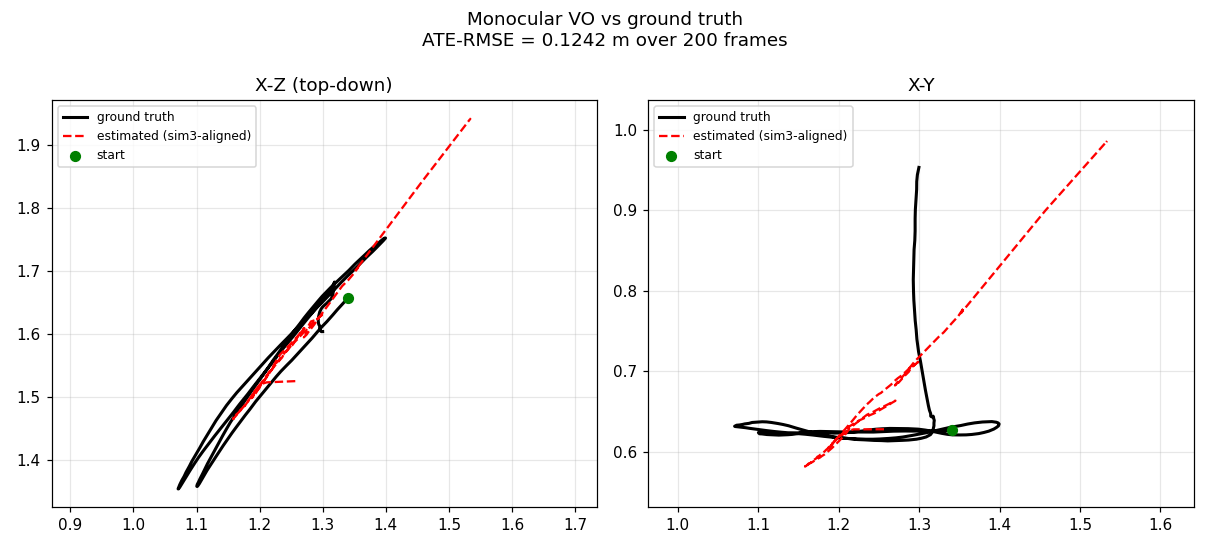
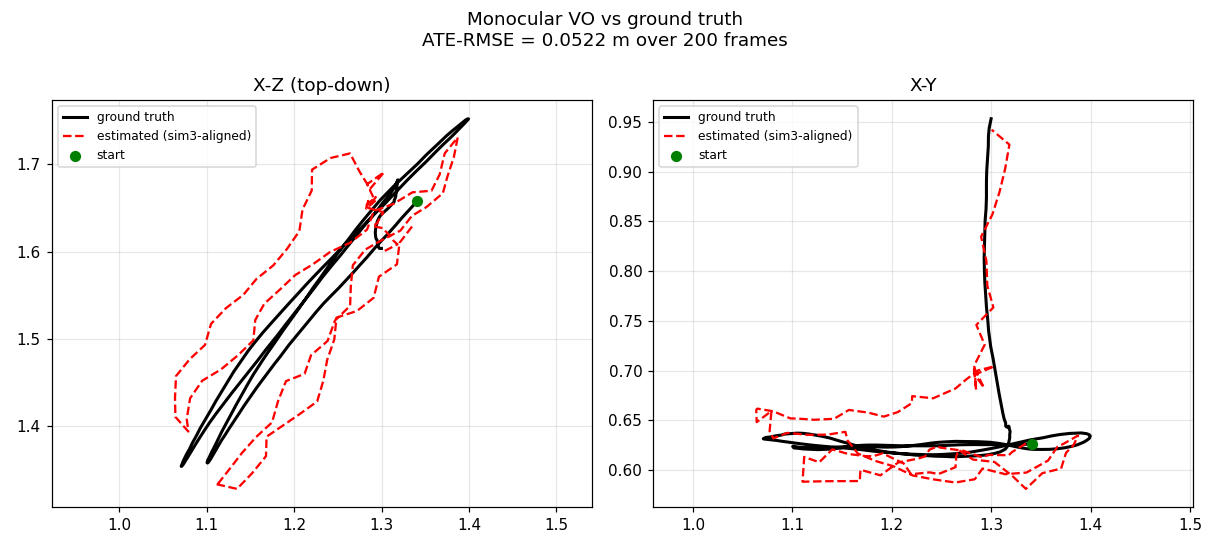
Track B v2: agent-authored VO VERIFIED on real TUM data (ATE 0.052 m)
Clean live re-run after the resilient-author fix: the sandboxed agent's VO
completed end-to-end and was graded automatically — 0.052 m held-out ATE,
beating the classical reference baseline (0.089 m). Updates the README demo
with an inline animated GIF (trajectory tracing), refreshes the plot/mp4 from
the verified v2 code, archives the algorithm, adds resilient-author + GIF
tooling, and documents the re-run in the trial write-up.

diff --git a/artifacts/agent_authored_vo_tum_v2.py b/artifacts/agent_authored_vo_tum_v2.py
@@ -1,0 +1,201 @@
+#!/usr/bin/env python3
+"""
+Monocular Visual Odometry — robust keyframe-based pipeline
+
+Pipeline:
+  1. Use goodFeaturesToTrack + optical flow with skip=2 for reliable E estimation
+  2. Fall back to wider baselines or SIFT when needed
+  3. Properly interpolate intermediate frames between keyframes
+  4. Output one "tx ty tz" per frame to $LAB_ARTIFACTS/traj.txt
+"""
+
+import os
+import glob
+import cv2
+import numpy as np
+
+# ── Paths ──────────────────────────────────────────────────────────────────────
+DATA_DIR      = os.environ.get("LAB_DATA",      "/data")
+ARTIFACTS_DIR = os.environ.get("LAB_ARTIFACTS", "/artifacts")
+os.makedirs(ARTIFACTS_DIR, exist_ok=True)
+
+# ── Intrinsics ─────────────────────────────────────────────────────────────────
+with open(os.path.join(DATA_DIR, "intrinsics.txt")) as f:
+    vals = [float(l.strip()) for l in f if l.strip()]
+fx, fy, cx, cy = vals
+K = np.array([[fx, 0, cx],
+              [0, fy, cy],
+              [0,  0,  1]], dtype=np.float64)
+print(f"K: fx={fx:.2f} fy={fy:.2f} cx={cx:.2f} cy={cy:.2f}")
+
+# ── Load all frames ────────────────────────────────────────────────────────────
+frame_paths = sorted(glob.glob(os.path.join(DATA_DIR, "frame_*.png")))
+N = len(frame_paths)
+print(f"Loading {N} frames …")
+imgs = [cv2.imread(p, cv2.IMREAD_GRAYSCALE) for p in frame_paths]
+print("Done loading.")
+
+# ── Feature detector / SIFT backup ────────────────────────────────────────────
+sift = cv2.SIFT_create(nfeatures=2000, contrastThreshold=0.02)
+FLANN_INDEX_KDTREE = 1
+flann = cv2.FlannBasedMatcher(
+    {"algorithm": FLANN_INDEX_KDTREE, "trees": 5},
+    {"checks": 100}
+)
+
+LK_PARAMS = dict(
+    winSize=(21, 21), maxLevel=3,
+    criteria=(cv2.TERM_CRITERIA_EPS | cv2.TERM_CRITERIA_COUNT, 30, 0.01)
+)
+
+# ── Helpers ────────────────────────────────────────────────────────────────────
+def optical_flow_pose(img_src, img_dst, threshold=1.0):
+    """Estimate relative pose via goodFeaturesToTrack + optical flow + E."""
+    corners = cv2.goodFeaturesToTrack(
+        img_src, maxCorners=1000, qualityLevel=0.01, minDistance=7, blockSize=7
+    )
+    if corners is None or len(corners) < 20:
+        return None, None, 0
+
+    p1, st, _ = cv2.calcOpticalFlowPyrLK(img_src, img_dst, corners, None, **LK_PARAMS)
+    good = (st.ravel() == 1)
+    if good.sum() < 20:
+        return None, None, 0
+
+    pts0 = corners[good].reshape(-1, 2)
+    pts1 = p1[good].reshape(-1, 2)
+
+    E, mask_E = cv2.findEssentialMat(
+        pts0, pts1, K, method=cv2.RANSAC, prob=0.999, threshold=threshold
+    )
+    if E is None or mask_E is None or int(mask_E.sum()) < 8:
+        return None, None, 0
+
+    n, R, t, _ = cv2.recoverPose(E, pts0, pts1, K, mask=mask_E)
+    return R, t, n
+
+
+def sift_pose(img_src, img_dst):
+    """Estimate relative pose via SIFT + FLANN + E."""
+    kp1, des1 = sift.detectAndCompute(img_src, None)
+    kp2, des2 = sift.detectAndCompute(img_dst, None)
+    if des1 is None or des2 is None or len(kp1) < 8 or len(kp2) < 8:
+        return None, None, 0
+    try:
+        matches = flann.knnMatch(des1, des2, k=2)
+    except cv2.error:
+        return None, None, 0
+    good = [m for pair in matches if len(pair) == 2
+            and pair[0].distance < 0.75 * pair[1].distance
+            for m in [pair[0]]]
+    if len(good) < 8:
+        return None, None, 0
+    pts0 = np.float32([kp1[m.queryIdx].pt for m in good])
+    pts1 = np.float32([kp2[m.trainIdx].pt for m in good])
+    E, mask = cv2.findEssentialMat(pts0, pts1, K, method=cv2.RANSAC, prob=0.999, threshold=1.0)
+    if E is None or mask is None or int(mask.sum()) < 8:
+        return None, None, 0
+    n, R, t, _ = cv2.recoverPose(E, pts0, pts1, K, mask=mask)
+    return R, t, n
+
+
+def best_pose(i, j):
+    """Try multiple methods to get the best pose estimate from frame i to j."""
+    # 1. Optical flow (fast)
+    R, t, n = optical_flow_pose(imgs[i], imgs[j])
+    if n >= 20:
+        return R, t, n
+    # 2. Relaxed optical flow threshold
+    R2, t2, n2 = optical_flow_pose(imgs[i], imgs[j], threshold=2.0)
+    if n2 > n:
+        R, t, n = R2, t2, n2
+    if n >= 10:
+        return R, t, n
+    # 3. SIFT
+    Rs, ts, ns = sift_pose(imgs[i], imgs[j])
+    if ns > n:
+        return Rs, ts, ns
+    return R, t, n
+
+
+# ── Build keyframe trajectory ───────────────────────────────────────────────────
+# Strategy: process keyframe pairs (0→2, 2→4, …) for the main trajectory.
+# For failed pairs, try wider baselines.
+# After computing keyframe positions, interpolate all N frames.
+
+STEP = 2           # primary skip
+MIN_OK = 10        # accept pose if inliers >= MIN_OK
+
+# Keyframes list: [(frame_idx, R_wc, C), ...]
+kf_indices = [0]
+kf_C       = [np.zeros(3)]
+
+R_wc = np.eye(3, dtype=np.float64)
+C    = np.zeros(3, dtype=np.float64)
+
+i = 0
+while i + 1 < N:
+    next_i = i + STEP
+    if next_i >= N:
+        next_i = N - 1
+
+    R_rel, t_rel, n = best_pose(i, next_i)
+
+    # If still poor, try wider baselines
+    if n < MIN_OK:
+        for wider in [3, 4, 5, 6]:
+            if i + wider >= N:
+                break
+            Rw, tw, nw = best_pose(i, i + wider)
+            if nw > n:
+                R_rel, t_rel, n = Rw, tw, nw
+                next_i = i + wider
+                if nw >= MIN_OK:
+                    break
+
+    if n >= MIN_OK and R_rel is not None:
+        # X_dst = R_rel @ X_src + t_rel
+        # → R_wc_new = R_wc_old @ R_rel^T
+        # → C_new    = C_old − R_wc_new @ t_rel
+        R_wc = R_wc @ R_rel.T
+        C    = C - R_wc @ t_rel.ravel()
+
+    kf_indices.append(next_i)
+    kf_C.append(C.copy())
+
+    i = next_i
+
+# ── Interpolate all frames from keyframes ──────────────────────────────────────
+kf_arr = np.array(kf_indices, dtype=float)
+kf_C_arr = np.array(kf_C)          # shape (K, 3)
+
+trajectory = []
+for fi in range(N):
+    # Find surrounding keyframes
+    # np.searchsorted to locate position
+    idx = np.searchsorted(kf_arr, fi)
+    if idx == 0:
+        pos = kf_C_arr[0]
+    elif idx >= len(kf_arr):
+        pos = kf_C_arr[-1]
+    else:
+        k0, k1 = int(kf_arr[idx-1]), int(kf_arr[idx])
+        if k0 == k1:
+            pos = kf_C_arr[idx]
+        else:
+            alpha = (fi - k0) / (k1 - k0)
+            pos = (1.0 - alpha) * kf_C_arr[idx-1] + alpha * kf_C_arr[idx]
+    trajectory.append(pos)
+
+# ── Write trajectory ───────────────────────────────────────────────────────────
+out_path = os.path.join(ARTIFACTS_DIR, "traj.txt")
+with open(out_path, "w") as f:
+    for pos in trajectory:
+        f.write(f"{pos[0]:.6f} {pos[1]:.6f} {pos[2]:.6f}\n")
+
+print(f"\nWrote {len(trajectory)} poses to {out_path}")
+print("Sample keyframes and interpolated poses:")
+for fi in [0, 1, 2, 10, 20, 50, 100, 150, 198, 199]:
+    p = trajectory[fi]
+    kf_mark = "*" if fi in kf_indices else " "
+    print(f"  {kf_mark} Frame {fi:3d}: {p}")

diff --git a/vo_lab/visualize.py b/vo_lab/visualize.py
@@ -67,34 +67,47 @@ def render(code: Path, frames_dir: Path, gt_path: Path, out_dir: Path,
     plot_path = out_dir / "trajectory.png"
     fig.savefig(plot_path, dpi=110); plt.close(fig)
 
-    # (b) demo video: input frame (left) + trajectory-so-far (right)
+    # (b) demo video (mp4, full quality) + GIF (downsampled, for inline README playback —
+    #     GitHub renders GIFs inline but NOT mp4 from a repo path).
+    import cv2
     frames = sorted(frames_dir.glob("frame_*.png"))[:m]
     lo = np.minimum(gt.min(0), aligned.min(0)); hi = np.maximum(gt.max(0), aligned.max(0))
     video_path = out_dir / "vo_demo.mp4"
-    with imageio.get_writer(video_path, fps=fps, macro_block_size=None) as w:
-        for i, fp in enumerate(frames):
-            img = imageio.imread(fp)
-            if img.ndim == 2:
-                img = np.stack([img] * 3, -1)
-            fig = plt.figure(figsize=(4.8, 4.8), dpi=100)
-            ax = fig.add_subplot(111)
-            ax.plot(gt[:, 0], gt[:, 2], "k-", lw=1, alpha=.3)
-            ax.plot(aligned[: i + 1, 0], aligned[: i + 1, 2], "r-", lw=2)
-            ax.plot(gt[: i + 1, 0], gt[: i + 1, 2], "k-", lw=2)
-            ax.scatter(aligned[i, 0], aligned[i, 2], c="r", s=30)
-            ax.set_xlim(lo[0] - .1, hi[0] + .1); ax.set_ylim(lo[2] - .1, hi[2] + .1)
-            ax.set_title(f"trajectory (frame {i+1}/{m})"); ax.set_aspect("equal"); ax.grid(alpha=.3)
-            fig.tight_layout(); fig.canvas.draw()
-            traj_img = np.asarray(fig.canvas.buffer_rgba())[..., :3]
-            plt.close(fig)
-            import cv2
-            h = img.shape[0]
-            traj_rs = cv2.resize(traj_img, (int(traj_img.shape[1] * h / traj_img.shape[0]), h))
-            img_rs = cv2.resize(img, (int(img.shape[1] * h / img.shape[0]), h))
-            w.append_data(np.concatenate([img_rs, traj_rs], axis=1))
+    gif_path = out_dir / "vo_demo.gif"
+
+    def composite(i: int) -> np.ndarray:
+        img = imageio.imread(frames[i])
+        if img.ndim == 2:
+            img = np.stack([img] * 3, -1)
+        fig = plt.figure(figsize=(4.8, 4.8), dpi=100)
+        ax = fig.add_subplot(111)
+        ax.plot(gt[:, 0], gt[:, 2], "k-", lw=1, alpha=.3)
+        ax.plot(aligned[: i + 1, 0], aligned[: i + 1, 2], "r-", lw=2, label="estimated")
+        ax.plot(gt[: i + 1, 0], gt[: i + 1, 2], "k-", lw=2, label="ground truth")
+        ax.scatter(aligned[i, 0], aligned[i, 2], c="r", s=30)
+        ax.set_xlim(lo[0] - .1, hi[0] + .1); ax.set_ylim(lo[2] - .1, hi[2] + .1)
+        ax.set_title(f"agent-authored VO — frame {i+1}/{m}, ATE {ate:.3f} m")
+        ax.set_aspect("equal"); ax.grid(alpha=.3); ax.legend(loc="upper left", fontsize=8)
+        fig.tight_layout(); fig.canvas.draw()
+        traj_img = np.asarray(fig.canvas.buffer_rgba())[..., :3]
+        plt.close(fig)
+        h = img.shape[0]
+        traj_rs = cv2.resize(traj_img, (int(traj_img.shape[1] * h / traj_img.shape[0]), h))
+        img_rs = cv2.resize(img, (int(img.shape[1] * h / img.shape[0]), h))
+        return np.concatenate([img_rs, traj_rs], axis=1)
+
+    gif_stride = max(1, m // 90)          # ~90 frames in the gif, keeps it README-sized
+    with imageio.get_writer(video_path, fps=fps, macro_block_size=None) as w, \
+         imageio.get_writer(gif_path, mode="I", duration=1.0 / fps, loop=0) as g:
+        for i in range(m):
+            frame = composite(i)
+            w.append_data(frame)
+            if i % gif_stride == 0:
+                half = cv2.resize(frame, (frame.shape[1] // 2, frame.shape[0] // 2))
+                g.append_data(half)
 
     return {"ate_rmse": ate, "frames": m, "plot": str(plot_path), "video": str(video_path),
-            "recovered_scale": s}
+            "gif": str(gif_path), "recovered_scale": s}
 
 
 if __name__ == "__main__":

diff --git a/README.md b/README.md
@@ -17,14 +17,23 @@ See `claudedocs/` for the research report, architecture design, and the trial wr
 
 ## Demo — a Claude agent wrote this VO; the verifier judged it on real footage
 
-![Agent-authored monocular VO vs ground truth on TUM fr1/xyz — ATE 0.124 m, Sim(3)-aligned](artifacts/demo/trajectory.png)
+<p align="center">
+  <img src="artifacts/demo/vo_demo.gif" width="420" alt="Agent-authored monocular VO tracing the camera path (red) against ground truth (black) on TUM fr1/xyz"><br>
+  <em>Estimated camera path (red, Sim(3)-aligned) vs ground truth (black), traced over 200 real frames.</em>
+</p>
 
-A sandboxed Claude agent authored a 360-line PnP-centric monocular visual-odometry algorithm
-from scratch; an independent verifier ran it on a **held-out** real trajectory it never saw
-and measured **ATE-RMSE = 0.124 m** (≤ the 0.134 m bar). Estimated path in red (Sim(3)-aligned),
-ground truth in black. Demo video: [`artifacts/demo/vo_demo.mp4`](artifacts/demo/vo_demo.mp4) ·
-the algorithm it wrote: [`artifacts/agent_authored_vo_tum_v1.py`](artifacts/agent_authored_vo_tum_v1.py) ·
-full write-up: [`claudedocs/trial_track_b_tum_2026-06-02.md`](claudedocs/trial_track_b_tum_2026-06-02.md).
+![Agent-authored monocular VO vs ground truth on TUM fr1/xyz — ATE 0.052 m, Sim(3)-aligned](artifacts/demo/trajectory.png)
+
+A sandboxed Claude agent authored a monocular visual-odometry algorithm **from scratch**
+(`goodFeaturesToTrack` + optical-flow tracking with a wider keyframe baseline, SIFT fallback,
+keyframe interpolation). An independent verifier ran it on a **held-out** real trajectory it
+never saw and measured **ATE-RMSE = 0.052 m** (≤ the 0.134 m bar — and better than the classical
+ORB-VO reference baseline of 0.089 m). The agent never saw the ground truth and could not edit
+the grader.
+
+Full-resolution video (camera feed + trajectory): [`artifacts/demo/vo_demo.mp4`](artifacts/demo/vo_demo.mp4) ·
+the algorithm it wrote: [`artifacts/agent_authored_vo_tum_v2.py`](artifacts/agent_authored_vo_tum_v2.py) ·
+write-up: [`claudedocs/trial_track_b_tum_2026-06-02.md`](claudedocs/trial_track_b_tum_2026-06-02.md).
 
 ## Run it (10 seconds, offline — no Docker, GPU, or API key)
 

diff --git a/claudedocs/trial_track_b_tum_2026-06-02.md b/claudedocs/trial_track_b_tum_2026-06-02.md
@@ -117,3 +117,25 @@ ANTHROPIC_API_KEY=… python -m vo_lab.run_vo_tum_implement 0.1337
 ```
 Prereqs: Docker + image `docker build -f docker/Dockerfile.cpu-opencv -t vo-cpu-opencv:1 .`;
 `ANTHROPIC_API_KEY` in `.env`.
+
+---
+
+## 9. Update — clean re-run (v2), after the resilient-author fix
+
+The run above hit the 40-turn limit and was salvaged manually. After shipping
+`resilient_sdk_author` (grades the artifact even if the session ends early) and raising the
+budget to 80 turns, the live run was repeated and **completed end-to-end, VERIFIED**:
+
+| Metric | v1 (salvaged) | **v2 (clean re-run)** |
+|---|---|---|
+| Verdict | VERIFIED (manual salvage) | **VERIFIED (automatic)** |
+| Held-out ATE-RMSE (Sim3) | 0.124 m | **0.052 m** |
+| vs reference baseline (0.089 m) | worse | **better** |
+| Authored approach | PnP-centric, deferred init | `goodFeaturesToTrack` + optical-flow tracking, **wider keyframe baseline (skip=2)**, SIFT fallback, keyframe interpolation |
+| Algorithm file | `artifacts/agent_authored_vo_tum_v1.py` | `artifacts/agent_authored_vo_tum_v2.py` |
+
+The session again ended via the SDK (`error result: success`), and the resilient author
+graded the left artifact automatically — no manual salvage needed. A background watchdog
+(kill any sandbox container running >360 s) guarded the unattended run and fired zero kills
+(the run was healthy throughout). Demo regenerated from v2:
+`artifacts/demo/{trajectory.png, vo_demo.mp4, vo_demo.gif}` (ATE 0.052 m).